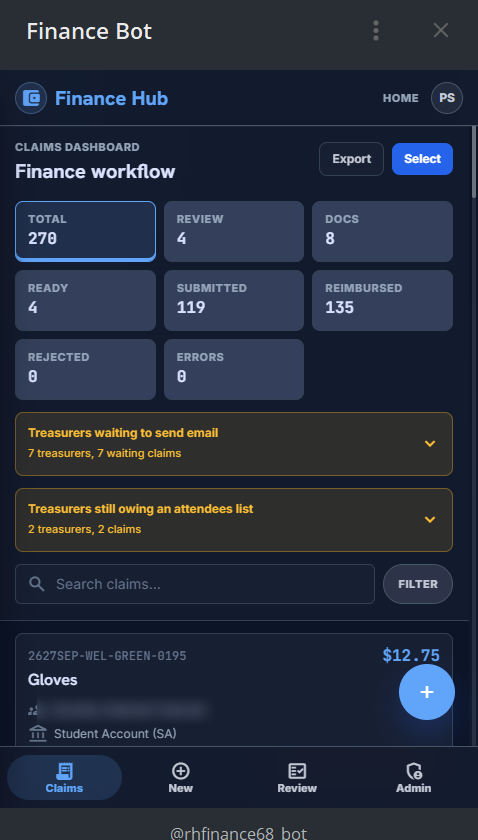
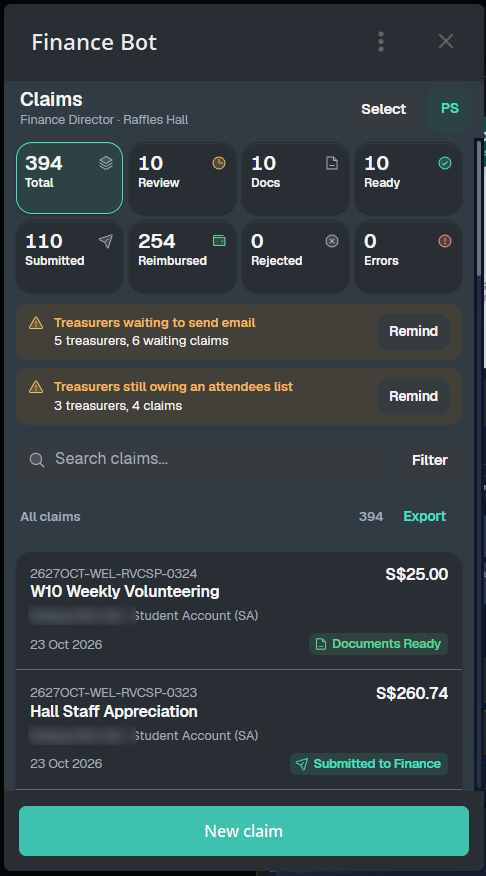
Finance bot uses the new claims dashboard screenshot
Hero phone and Finance card both use the latest Finance bot screen.
The resident's name on the claims is blurred.

diff --git a/src/content.ts b/src/content.ts
@@ -95,15 +95,15 @@ export const products: Product[] = [
     metric: { value: "100%", label: "of the hall's CCA claims", short: "of CCA claims" },
     screenshot: {
       src: "/products/finance-bot.webp",
-      width: 476,
-      height: 357,
-      alt: "Finance bot claims dashboard: counts of claims by stage, from review to submitted and reimbursed.",
+      width: 486,
+      height: 365,
+      alt: "Finance bot claims dashboard: claim counts by stage, from review to reimbursed, with reminders for treasurers.",
     },
     phone: {
       src: "/products/finance-bot-phone.webp",
-      width: 478,
-      height: 840,
-      alt: "Finance bot in Telegram: the Finance Hub claims dashboard with claim counts by stage and treasurer reminders.",
+      width: 486,
+      height: 876,
+      alt: "Finance bot in Telegram: the claims dashboard with counts by stage, treasurer reminders and the latest claims.",
     },
   },
   {
